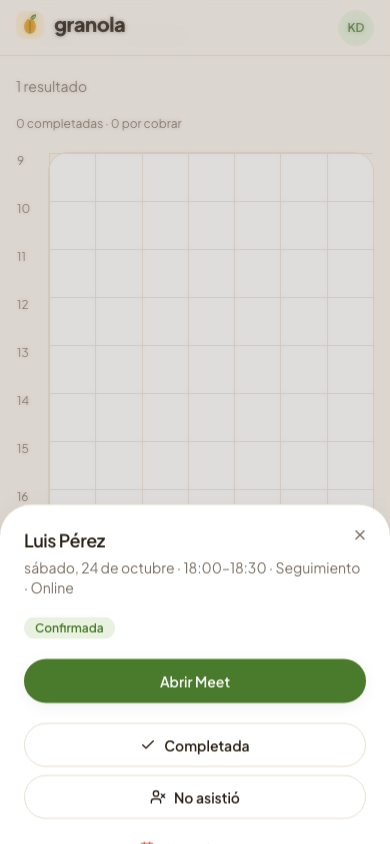
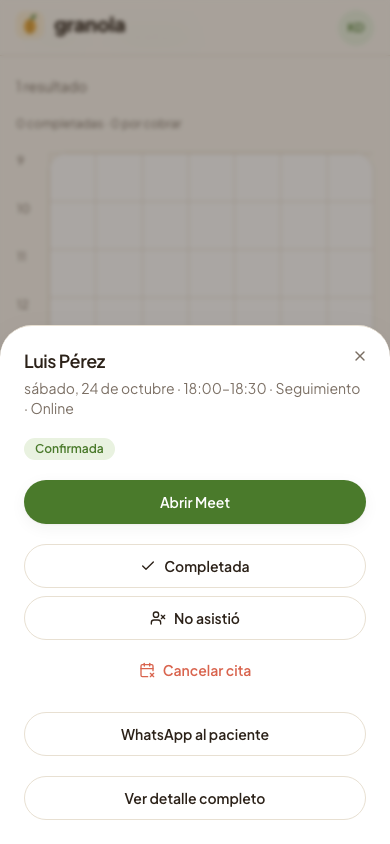
Captura las hojas móviles al terminar su animación

diff --git a/apps/web/e2e/agenda.spec.ts b/apps/web/e2e/agenda.spec.ts
@@ -12,7 +12,7 @@ async function mobileCapture(page: Page, name: string) {
   expect(
     await page.evaluate(() => document.documentElement.scrollWidth),
   ).toBeLessThanOrEqual(390);
-  await page.screenshot({ path: capture(name) });
+  await page.screenshot({ path: capture(name), animations: "disabled" });
 }
 
 test("Karla consulta Día, cambia a Semana y abre una cita en la hoja inferior", async ({
